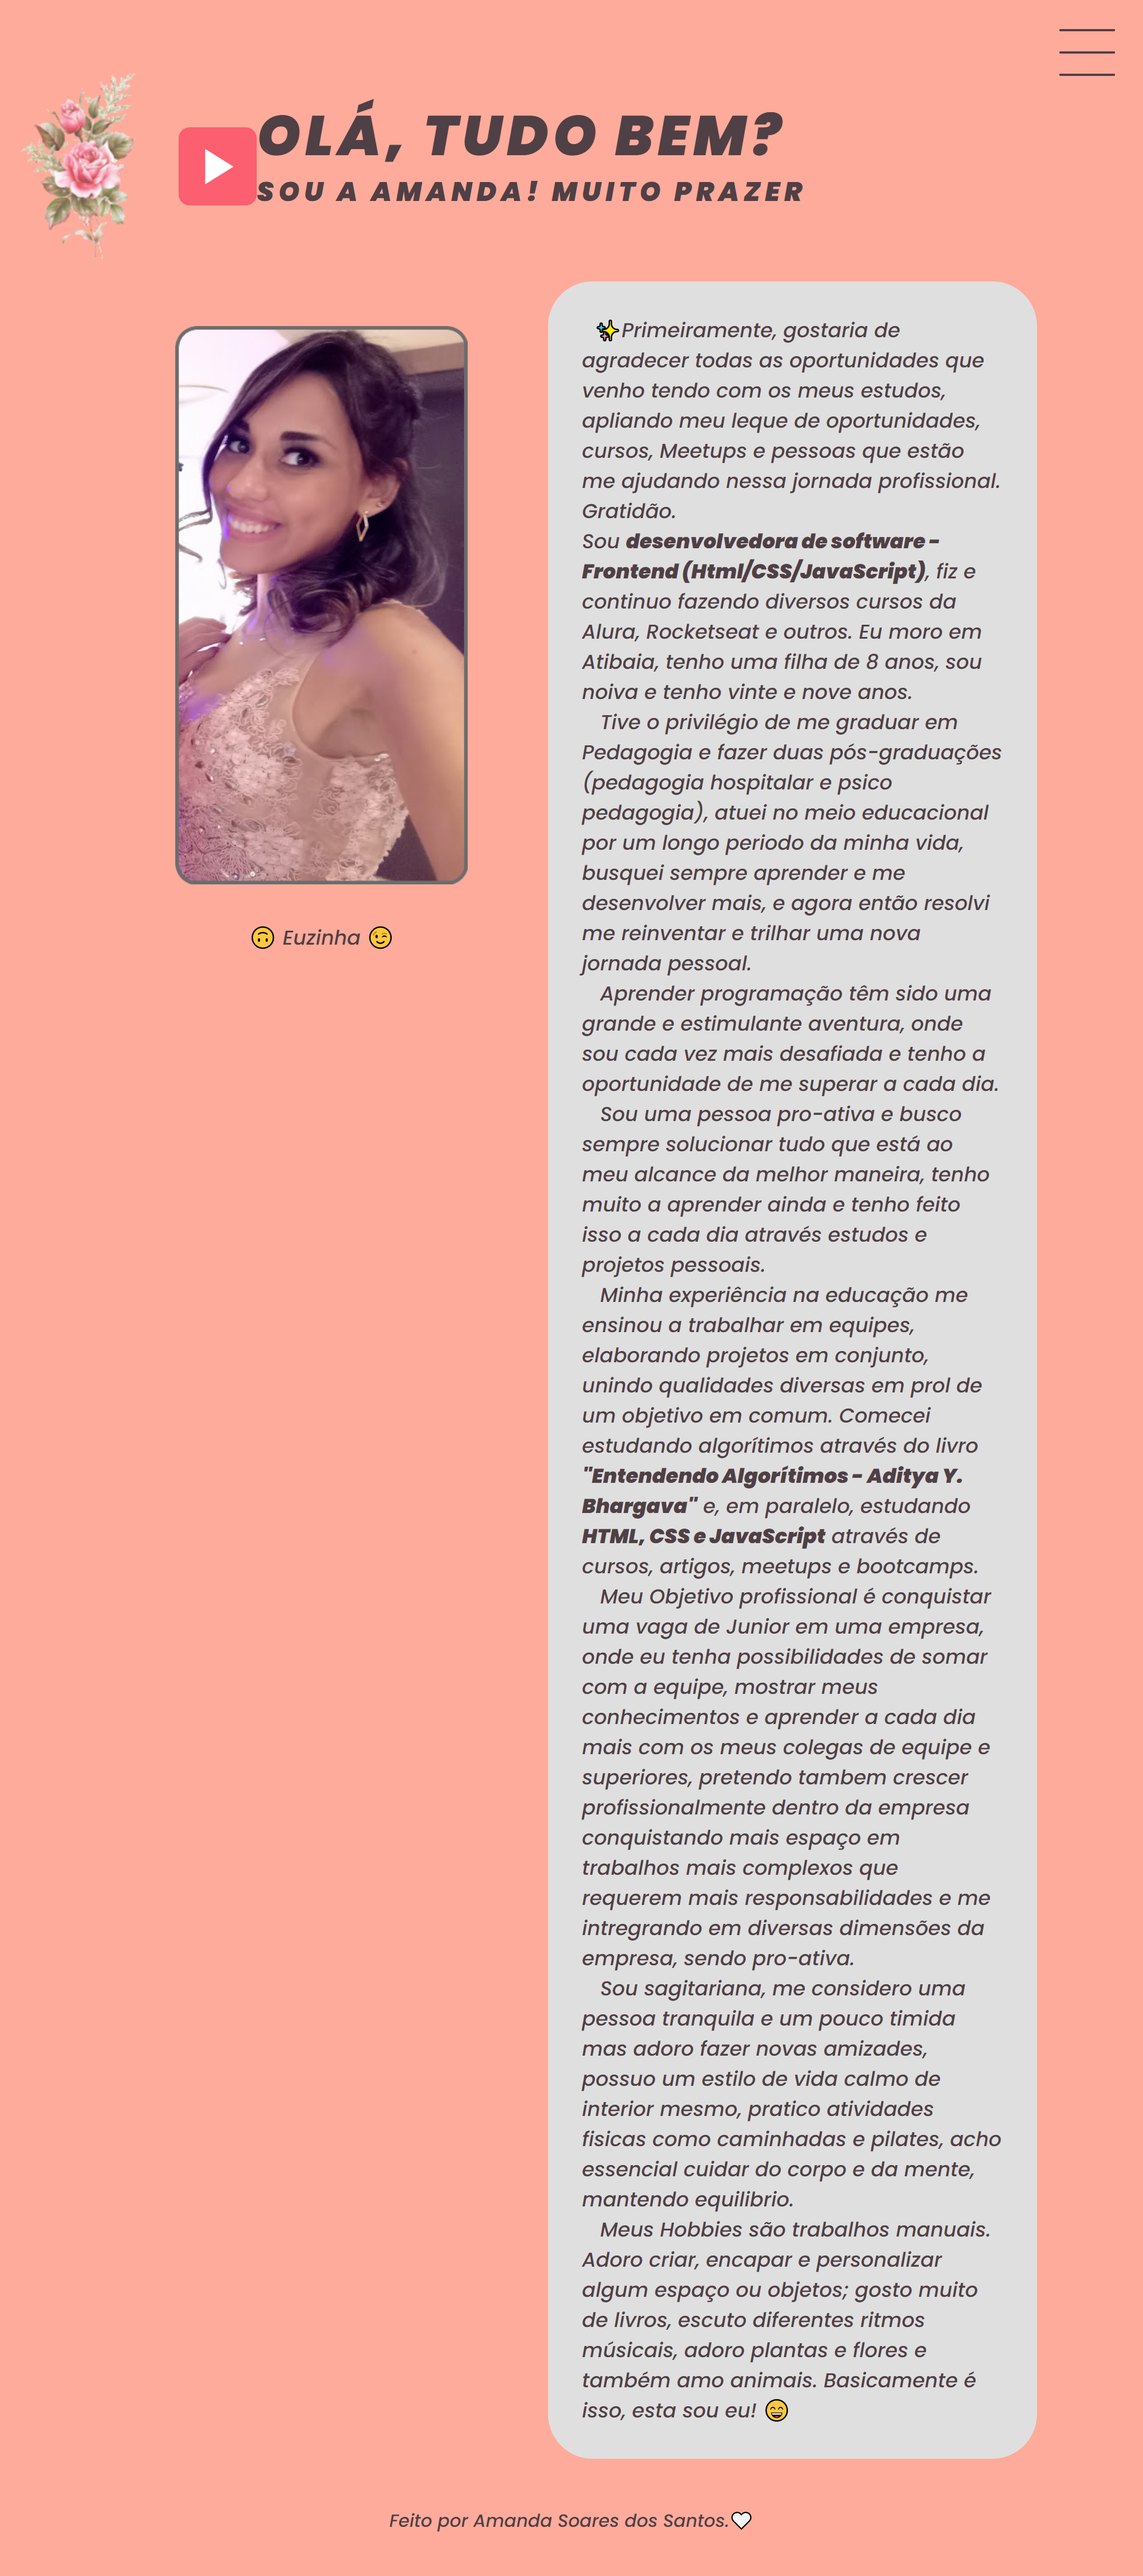
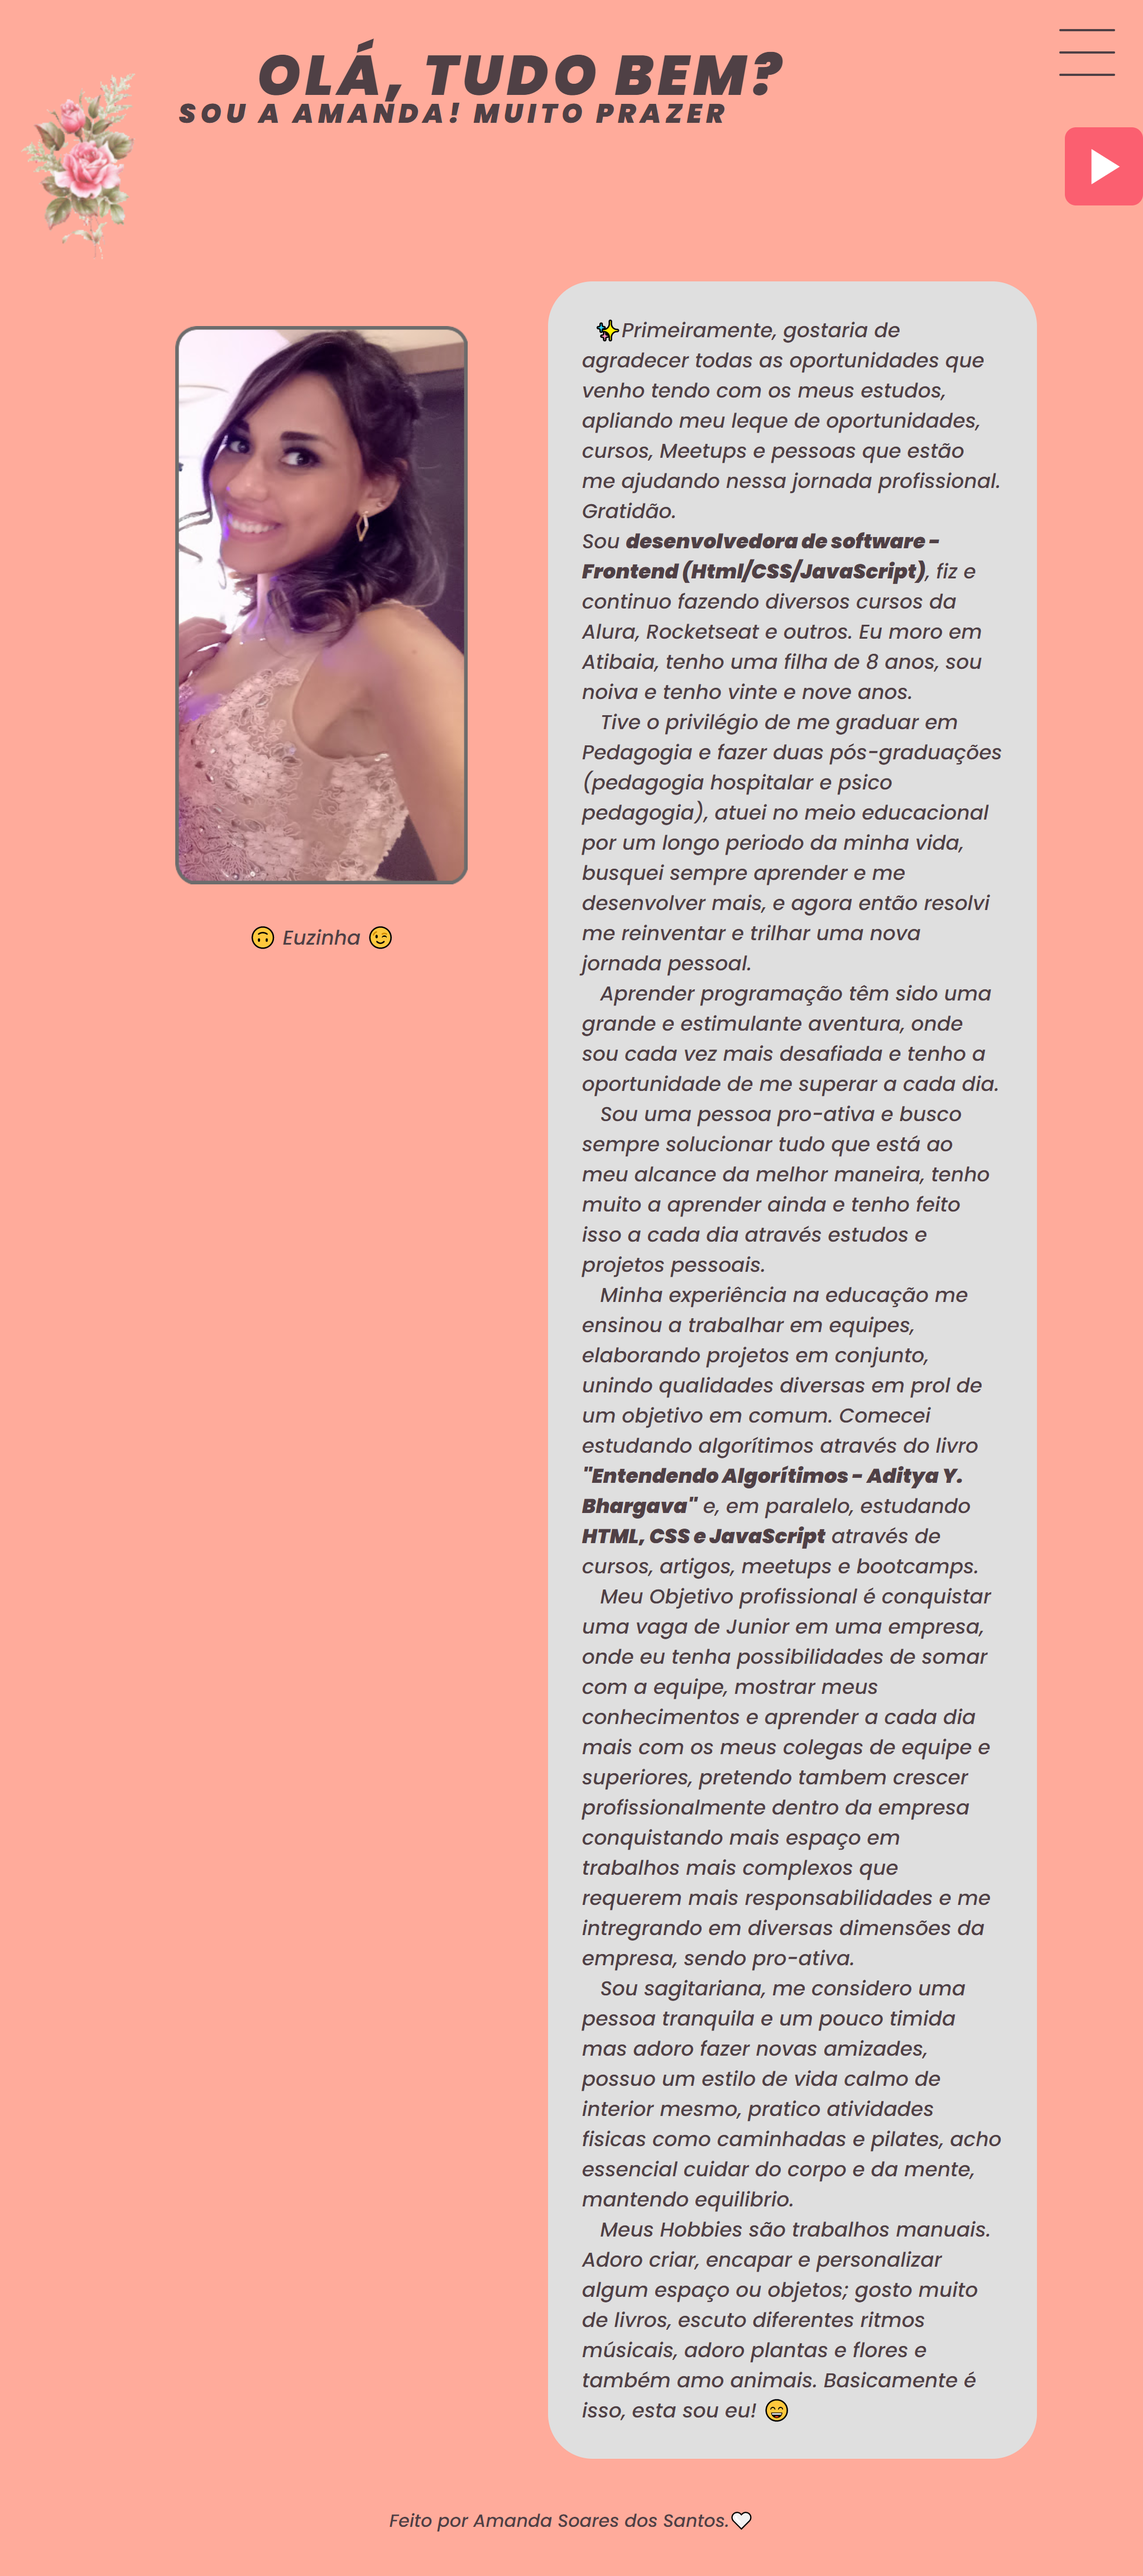
preview

Changed region(s): [[0.1562, 0.0, 0.6875, 0.0936], [0.9375, 0.0312, 1.0, 0.0936]]

diff --git a/assets/css/style.css b/assets/css/style.css
@@ -17,15 +17,16 @@ h1 {
   font-size: 50px;
   text-transform: uppercase;
   letter-spacing: 4px;
-  margin-left: 112px;
-  margin-top: -40px;
+  margin-left: 70px;
+  margin-top:-20px;
+  margin-right: 202px;
 
 }
 h2 {
   text-transform: uppercase;
   letter-spacing: 4px;
-  margin-left: 205px;
- 
+  line-height:2px;
+  margin-top:20px; 
 }
 .header-container-index {
   height: 100vh;
